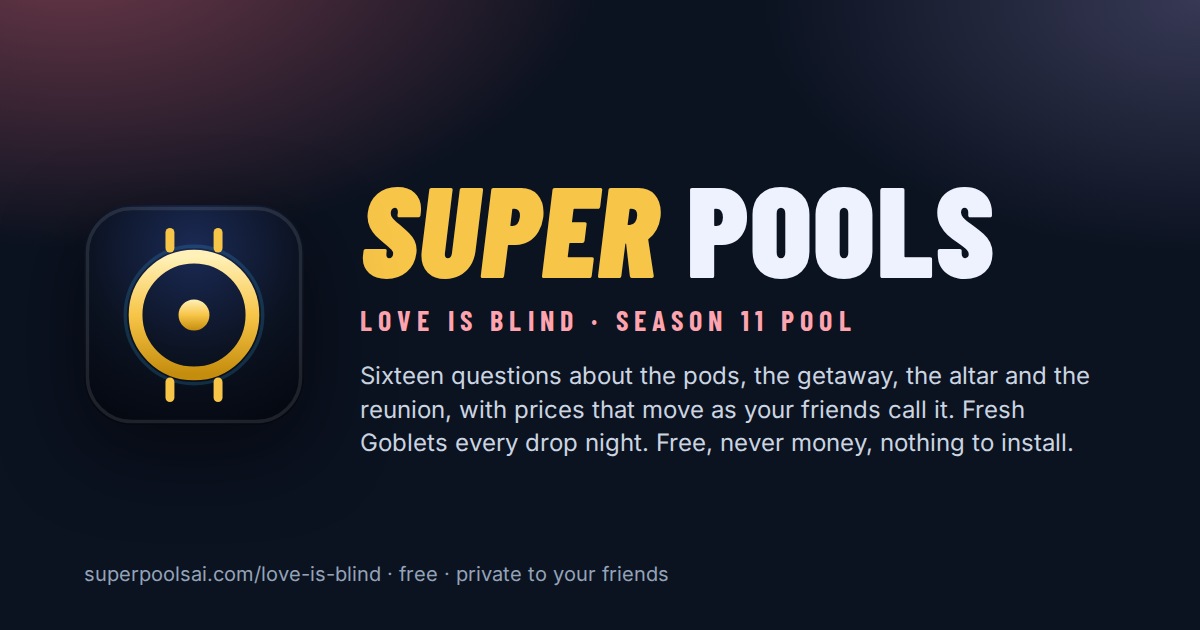
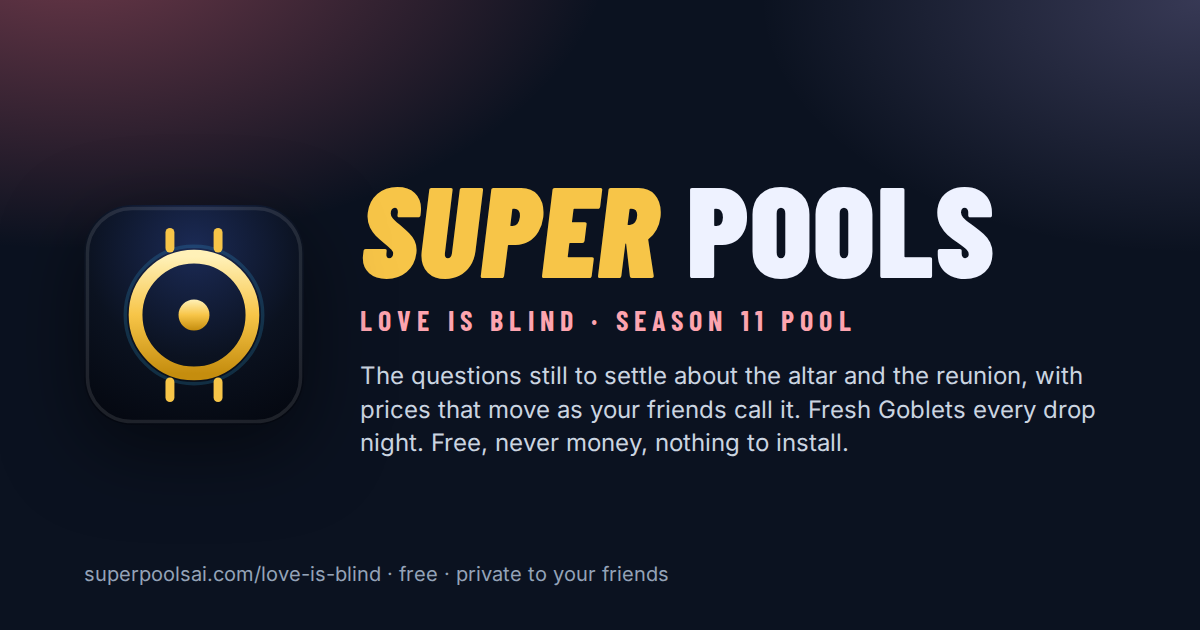
landing: say what a pool started today actually opens with, on the example pool and Love Is Blind (#331)
* landing: clarify what a new pool gets, drop a past LIB date

Example pool notes the drained pack and that today opens only open
questions; the Love Is Blind eyebrow no longer hardcodes October 28.

* landing: drop the sixteen-question claim on Love Is Blind

The pack is drained, so the page and share card say what a new pool
still gets. Card 02 names the back-pay; tests lock the number out.

---------

Changed region(s): [[0.2775, 0.573, 0.925, 0.7238]]

diff --git a/landing/love-is-blind.html b/landing/love-is-blind.html
@@ -4,18 +4,18 @@
   <meta charset="utf-8" />
   <meta name="viewport" content="width=device-width, initial-scale=1" />
   <title>Love Is Blind Season 11 pool for your group chat | Super Pools</title>
-  <meta name="description" content="Sixteen questions about the pods, the getaway, the altar and the reunion with friends. Free, played in Goblets, never real money. No app to download." />
+  <meta name="description" content="The questions still open about the altar and the reunion, with friends. Free, played in Goblets, never real money. No app to download." />
   <link rel="canonical" href="https://superpoolsai.com/love-is-blind" />
   <link rel="icon" href="./icon.svg" type="image/svg+xml" />
   <meta name="theme-color" content="#0b1220" />
   <meta property="og:type" content="website" />
   <meta property="og:url" content="https://superpoolsai.com/love-is-blind" />
   <meta property="og:title" content="Love Is Blind Season 11 pool for your group chat | Super Pools" />
-  <meta property="og:description" content="Sixteen questions about the pods, the getaway, the altar and the reunion with friends. Free, played in Goblets, never real money. No app to download." />
+  <meta property="og:description" content="The questions still open about the altar and the reunion, with friends. Free, played in Goblets, never real money. No app to download." />
   <meta property="og:image" content="https://superpoolsai.com/og-love-is-blind.png" />
   <meta name="twitter:card" content="summary_large_image" />
   <meta name="twitter:title" content="Love Is Blind Season 11 pool for your group chat | Super Pools" />
-  <meta name="twitter:description" content="Sixteen questions about the pods, the getaway, the altar and the reunion with friends. Free, played in Goblets, never real money. No app to download." />
+  <meta name="twitter:description" content="The questions still open about the altar and the reunion, with friends. Free, played in Goblets, never real money. No app to download." />
   <meta name="twitter:image" content="https://superpoolsai.com/og-love-is-blind.png" />
   <link rel="stylesheet" href="./site.css" />
   <style>
@@ -47,9 +47,9 @@
 
     <div class="hero">
       <div>
-        <div class="eyebrow r">Love Is Blind · Season 11 · Boston · <span data-next="next, {next} {date}" data-done="the season is in the books">episodes 9-11 drop October 28</span></div>
+        <div class="eyebrow r">Love Is Blind · Season 11 · Boston<span data-next=" · next, {next} {date}" data-done=" · the season is in the books"></span></div>
         <h1 class="display">The pods open. <span class="l2"><em class="grad-rose">Call it with your friends.</em></span></h1>
-        <p class="lead">A Love Is Blind pool for your group chat: sixteen questions about the pods, the getaway, the altar and the reunion, each with a price that moves as your friends call it. New questions and fresh Goblets every drop night, the chat right beside the calls, and The Golden Goblet for whoever reads the season best. Free, never money, nothing to install.</p>
+        <p class="lead">A Love Is Blind pool for your group chat: the questions still to settle, from who makes it to the altar to who is still together at the reunion, each with a price that moves as your friends call it. New questions and fresh Goblets every drop night, the chat right beside the calls, and The Golden Goblet for whoever reads the season best. Free, never money, nothing to install.</p>
         <p class="lead" style="margin-top:10px">Joining late? Everyone who joins gets the same coins as the rest, including the drops that already happened, so a pool started now can still be won.</p>
         <div class="cta">
           <a class="btn btn-rose" href="https://app.superpoolsai.com/#/new?pack=love-is-blind-s11&src=lib">Start your Love Is Blind pool</a>
@@ -71,7 +71,8 @@
     <section id="questions">
       <div class="rv">
         <div class="eyebrow r">The questions</div>
-        <h2 class="display">Sixteen calls, <em class="rose">four drop nights.</em></h2>
+        <h2 class="display">Every call of the season, <em class="rose">four drop nights.</em></h2>
+        <p class="lead">A pool started now opens with the questions still to settle. The ones already closed stay here, so you can see the whole season at a glance.</p>
         <p class="lead">Every question is about what the show airs, so the pool holds before anyone knows the couples. The host settles each one from the episodes by the rule written under it, and the host can write questions of their own once the cast is known: will these two make it to the altar, who gets cold feet first.</p>
       </div>
       <div class="qgrid">
@@ -113,7 +114,7 @@
       </div>
       <div class="steps">
         <div class="card rv"><div class="num">01</div><h3>Start a pool, send one link</h3><p>Name it, pick its colour, and drop the link in the chat. Friends join with a name, email and password, then they're in — on any phone, with nothing to install. The link already asks the first question.</p></div>
-        <div class="card rv"><div class="num">02</div><h3>Call it, watch it move</h3><p>Everyone starts with 1,000 Goblets and gets 250 more on every drop night. Put them on the answer you believe and the price moves with every friend who agrees or doesn't. Take them off before it closes if you change your mind.</p></div>
+        <div class="card rv"><div class="num">02</div><h3>Call it, watch it move</h3><p>Everyone starts with 1,000 Goblets and gets 250 more on every drop night, including the ones already gone by when you join. Put them on the answer you believe and the price moves with every friend who agrees or doesn't. Take them off before it closes if you change your mind.</p></div>
         <div class="card rv"><div class="num">03</div><h3>Settle it, crown someone</h3><p>Questions close at 3 am Eastern as each drop lands. The host settles them from the episodes, right calls score Goblets, and the table moves. Whoever is worth the most at the reunion takes The Golden Goblet.</p></div>
       </div>
       <p style="margin:16px 0 0"><a href="./example-pool">See a whole pool filled in, with the Table at the end</a></p>

diff --git a/landing/example-pool.html b/landing/example-pool.html
@@ -1,5 +1,5 @@
 <!doctype html>
-<!-- Snapshot: pack key love-is-blind-s11, taken after Drop 2 settled and before Drop 3 closed, eight questions settled and eight open, four invented players. -->
+<!-- Snapshot: pack key love-is-blind-s11, taken after Drop 2 settled and before Drop 3 closed, eight questions settled and eight open, four invented players. The pack is now drained, so a pool started today loads only the questions still open (four as of Oct 28), and this page is a fixed illustration of the full season, not a preview of a new pool. -->
 <html lang="en">
 <head>
   <meta charset="utf-8" />
@@ -329,6 +329,7 @@
           <a class="btn-link" href="./love-is-blind">More on the Love Is Blind pool</a>
         </div>
         <p class="cta-note">Free to start. No app to download. One link in the group chat.</p>
+        <p class="cta-note" style="margin-top:4px">A pool you start today opens with the questions still to settle. This page shows the whole season so you can see the shape of it.</p>
       </div>
     </section>
 

diff --git a/landing/og-love-is-blind.html b/landing/og-love-is-blind.html
@@ -20,7 +20,7 @@
   <div>
     <div class="word"><b>SUPER</b> POOLS</div>
     <div class="tag">Love Is Blind · Season 11 pool</div>
-    <div class="sub">Sixteen questions about the pods, the getaway, the altar and the reunion, with prices that move as your friends call it. Fresh Goblets every drop night. Free, never money, nothing to install.</div>
+    <div class="sub">The questions still to settle about the altar and the reunion, with prices that move as your friends call it. Fresh Goblets every drop night. Free, never money, nothing to install.</div>
   </div>
   <div class="foot">superpoolsai.com/love-is-blind · free · private to your friends</div>
 </body></html>
